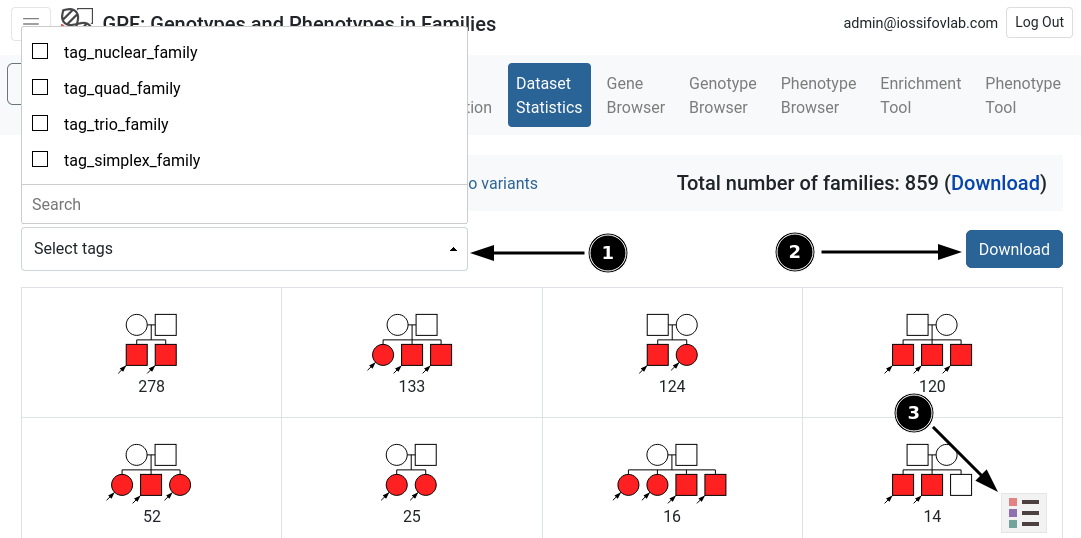
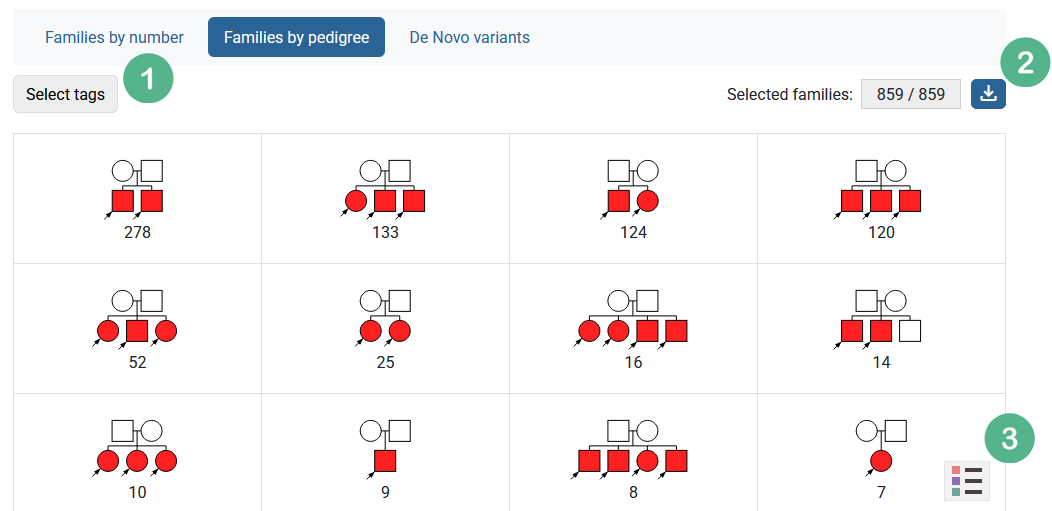
update user interface doc

diff --git a/userdocs/user_interface/gpf_user_interface.rst b/userdocs/user_interface/gpf_user_interface.rst
@@ -1,62 +1,61 @@
 GPF User Interface
 ==================
 
-This guide will give a brief description of the available tools in GPF.
+This guide provides a brief overview of the GPF user interface and the available tools.
 
-Depending on the instance's configuration, the user may require permission to access certain datasets. In that case, the user should
-log into their account or contact an admin if they don't have one.
-
-The data in the GPF instance is organized into datasets.
-Each dataset represents a set of families and the available phenotypic and/or
-genotypic data for the members of these families.
-
-To select a dataset, the user can click on the dataset dropdown menu (see fig. 1).
-Each dataset has its own selection of available tools, which are organized as tabs (see fig. 2).
-The availability of these tools is dependent on the configuration of the dataset.
-
-Additionally the user can click on the navigation button (see fig. 3) to access other functionality.
+Upon accessing the GPF instance, the user is greeted by the Home page, which includes a brief
+description of the instance(fig. 1.1), a shortcut to the `Gene Profiles`_ tool(fig. 1.2), and a list of all
+configured datasets(fig. 1.3). Each dataset represents a group of families along with the available phenotypic and/or genotypic data for
+their members. Next to each dataset the user can find a set of icons(fig. 1.4) providing useful details such as the
+presence of de novo or transmitted variants, the availability of phenotype data,
+and other relevant information. Note that access to some of the datasets may be restricted;
+users may log into their account or contact an administrator if access has not yet been granted.
+The top bar(fig. 1.5) can be used to navigate between different pages of GPF.
 
 
-.. figure:: imgs/gpf_screenshots/dataset-dropdown.png
+.. figure:: imgs/gpf_screenshots/home-page.png
    :align: center
 
    Figure 1
 
 |
 
-.. figure:: imgs/gpf_screenshots/dataset-tools.png
+On the datasets page, the user can click on the dataset dropdown menu in order to navigate
+between different datasets.
+
+.. figure:: imgs/gpf_screenshots/dataset-dropdown.png
    :align: center
-
-   Figure 2
-
 |
 
-.. figure:: imgs/gpf_screenshots/sidebar-button.png
-   :align: center
+Each dataset has its own selection of available tools, which are organized as tabs.
+The availability of these tools depends on the configuration of the dataset.
 
-   Figure 3
+
+.. figure:: imgs/gpf_screenshots/dataset-tools.png
+   :align: center
+|
+
 
 Dataset Description
 -------------------
 
-The Dataset Description tool provides an overview of the dataset.
-For example it can contain the reason for building the dataset, its size and scope, details of the technology used to
-generate the data, rules for access, relevant references and etc.
+The Dataset Description tool provides an overview of a dataset.
+It can contain information such as the reasons it was made, its size and scope, details of the technology used to
+generate its data, rules for access, relevant references and etc.
 
 The description is in Markdown format and can be edited directly from the browser.
 
 
 .. figure:: imgs/gpf_screenshots/dataset-description.png
    :align: center
+|
+
 
 Dataset Statistics
 ------------------
 
 The Dataset Statistics tool provides various overviews of the families in the dataset.
-A download button can be clicked to download a .ped file with all individuals in the dataset.
-
-.. figure:: imgs/gpf_screenshots/dataset-statistics-download-all.png
-   :align: center
+Download is available for all pedigree files in a `.ped` format.
 
 Families by number
 ##################
@@ -65,20 +64,37 @@ A table with the amount of individuals, separated by phenotype and sex.
 
 .. figure:: imgs/gpf_screenshots/families-by-number.png
    :align: center
+|
 
 Families by pedigree
 ####################
 
-A table of all types of pedigrees and the amount of families for each pedigree.
-Each pedigree can be clicked to display its family IDs and a download link for the .ped file.
-The table can be filtered by various tags provided by a dropdown menu in the upper-left corner (see fig. 4.1).
-The user can download the families found in table via the download button (see fig. 4.2).
-Additionally, a legend can be opened in the bottom-right corner (see fig. 4.3).
+This view presents a table listing all observed pedigree types along with the number of families for each.
+Each pedigree is clickable, revealing the corresponding family IDs and a download link.
+
+
+.. figure:: imgs/gpf_screenshots/pedigree-modal.png
+   :align: center
+|
+
+
+The table can be filtered by various tags available at the upper-left corner (fig. 2.1, 3).
+The filtered families can then be downloaded via the download button (fig. 2.2).
+Additionally, a legend describing the phenotypes can be toggled from the bottom-right corner (fig. 2.3).
 
 .. figure:: imgs/gpf_screenshots/families-by-pedigree.png
    :align: center
 
-   Figure 4
+   Figure 2
+
+|
+
+.. figure:: imgs/gpf_screenshots/pedigree-tags.png
+   :align: center
+
+   Figure 3
+|
+
 
 De Novo variants
 ################
@@ -87,6 +103,8 @@ Provides a table with the rates of de novo variants, split by variant effect typ
 
 .. figure:: imgs/gpf_screenshots/denovo-variants.png
    :align: center
+|
+
 
 Gene Browser
 ------------
@@ -100,6 +118,8 @@ Two download buttons are provided - for summary and family variants.
 
 .. figure:: imgs/gpf_screenshots/gene-browser.png
    :align: center
+|
+
 
 Genotype Browser
 ----------------
@@ -124,12 +144,22 @@ More information on the filters can be found :ref:`here<Filters>`.
 
 .. figure:: imgs/gpf_screenshots/genotype-browser.png
    :align: center
+|
 
 After the query is set up, the user can preview the variants of interest within
 the website or download them as an Excel file for further analysis.
 
-.. figure:: imgs/gpf_screenshots/genotype-browser-3.png
+.. figure:: imgs/gpf_screenshots/genotype-browser-results.png
    :align: center
+|
+
+Queries can be shared via the "Save/share query" button or saved for future work.
+
+
+.. figure:: imgs/gpf_screenshots/save-share-query.png
+   :align: center
+|
+
 
 Phenotype Browser
 -----------------
@@ -138,11 +168,13 @@ The Phenotype Browser tool shows the phenotypic data associated with a data set.
 The data is organized by instruments applied to individuals, where
 each instrument has a set of measures.
 These measures are displayed in a table alongside their histograms across the individuals in the datasets (split by role and diagnosis).
-A search bar and an instruments dropdown menu are provided.
+An instruments dropdown and a search are provided.
 The table can be downloaded as a spreadsheet file.
 
-.. figure:: imgs/gpf_screenshots/pheno-browser-search.png
+.. figure:: imgs/gpf_screenshots/phenotype-browser.png
    :align: center
+|
+
 
 Enrichment Tool
 ---------------
@@ -162,6 +194,8 @@ Enrichment models can be applies as additional normalization criteria.
 
 .. figure:: imgs/gpf_screenshots/enrichment-tool.png
    :align: center
+|
+
 
 Phenotype Tool
 --------------
@@ -172,25 +206,32 @@ Additional :ref:`filters<Filters>` are also provided. The results are available 
 
 .. figure:: imgs/gpf_screenshots/pheno-tool.png
    :align: center
+|
+
 
 Gene Profiles
 --------------------
 
 The Gene Profiles tool can be used to view a table of statistics about genes in the configured datasets.
-The table is interactive - columns can be sorted, toggled and reordered (see video below).
-Each gene symbol can be clicked to open the single view for that gene.
-Some of the columns represent a statistic for a dataset - their cells can be clicked to open the corresponding genotype browser query.
-Rows can be highlighted using the middle mouse button or CTRL / ⌘ + click. Highlighted genes are listed in the bottom right
-and can be opened for comparison (see fig. 5).
+The table is interactive - columns can be sorted, toggled and reordered.
 
 .. video:: ../_static/gene-profiles.mp4
 
 |
 
-.. figure:: imgs/gpf_screenshots/gene-profiles-1.png
+
+Each gene symbol can be clicked to open the single view for that gene.
+Some of the columns represent a statistic for a dataset - their cells can be clicked to open the corresponding genotype browser query.
+Rows can be highlighted using the middle mouse button or CTRL / ⌘ + click. Highlighted genes are listed in the bottom right
+and can be opened for comparison(fig. 4.1).
+
+
+.. figure:: imgs/gpf_screenshots/gene-profiles.png
    :align: center
 
-   Figure 5
+   Figure 4
+
+|
 
 
 Gene Profiles - single view
@@ -201,8 +242,10 @@ For example, scores are presented in the context of the histogram for the whole 
 There are also useful links for external resources such as the UCSC Genome Browser.
 
 
-.. figure:: imgs/gpf_screenshots/gene-profiles.png
+.. figure:: imgs/gpf_screenshots/gene-profiles-single-view.png
    :align: center
+|
+
 
 Filters
 -------
@@ -216,6 +259,8 @@ General Filters
    :align: center
 
    General filters
+
+|
 
 
 Present in parent
@@ -231,6 +276,7 @@ When choosing the frequency, the user can select:
 
 .. figure:: imgs/gpf_screenshots/present-in-parent.png
    :align: center
+|
 
 
 Pedigree selector
@@ -240,6 +286,8 @@ The pedigree selector has a dropdown to choose a criteria from:
 
 .. figure:: imgs/gpf_screenshots/pedigree-selector.png
    :align: center
+|
+
 
 Gene symbols filter
 ###################
@@ -249,6 +297,8 @@ Gene symbols can be listed as comma or newline separated values.
 
 .. figure:: imgs/gpf_screenshots/gene-symbols.png
    :align: center
+|
+
 
 Gene sets filter
 ################
@@ -259,9 +309,12 @@ A download link is available for the selected gene set.
 
 .. figure:: imgs/gpf_screenshots/gene-sets.png
    :align: center
+|
 
 .. figure:: imgs/gpf_screenshots/gene-sets-denovo.png
    :align: center
+|
+
 
 Gene scores
 ###########
@@ -274,6 +327,8 @@ A download link is available for the gene scores.
 
 .. figure:: imgs/gpf_screenshots/gene-scores.png
    :align: center
+|
+
 
 Regions filter
 ##############
@@ -284,12 +339,15 @@ Each region string follows a "CHR:POS" or "CHR:POS_BEG-POS_END" format.
 
 .. figure:: imgs/gpf_screenshots/regions-filter.png
    :align: center
+|
 
 The user can also filter by phenotypic measures through the "Advanced" tab.
 A measure is selected and the user is provided with a histogram, similar to the `Gene scores`_ filter.
 
 .. figure:: imgs/gpf_screenshots/family-filter-advanced.png
    :align: center
+|
+
 
 Study filters
 #############
@@ -298,6 +356,7 @@ This filter can be found on genotype data groups and allows selecting a subset o
 
 .. figure:: imgs/gpf_screenshots/study-filters.png
    :align: center
+|
 
 
 Genomic scores filters
@@ -309,6 +368,8 @@ This filter is dependent on variant annotation during genotype data import.
 
 .. figure:: imgs/gpf_screenshots/genomic-scores.png
    :align: center
+|
+
 
 Family and person filters
 #########################
@@ -319,6 +380,8 @@ IDs can be listed as comma or newline separated values.
 
 .. figure:: imgs/gpf_screenshots/family-ids.png
    :align: center
+|
+
 
 Unique family variants 
 ######################
@@ -327,3 +390,5 @@ This toggles how identical family variants from different studies are shown.
 
 .. figure:: imgs/gpf_screenshots/unique-family-variants.png
    :align: center
+|
+
